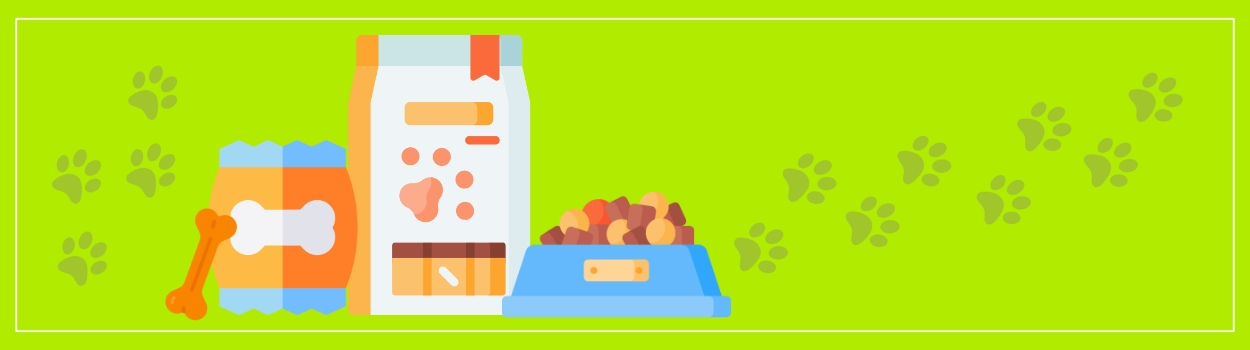
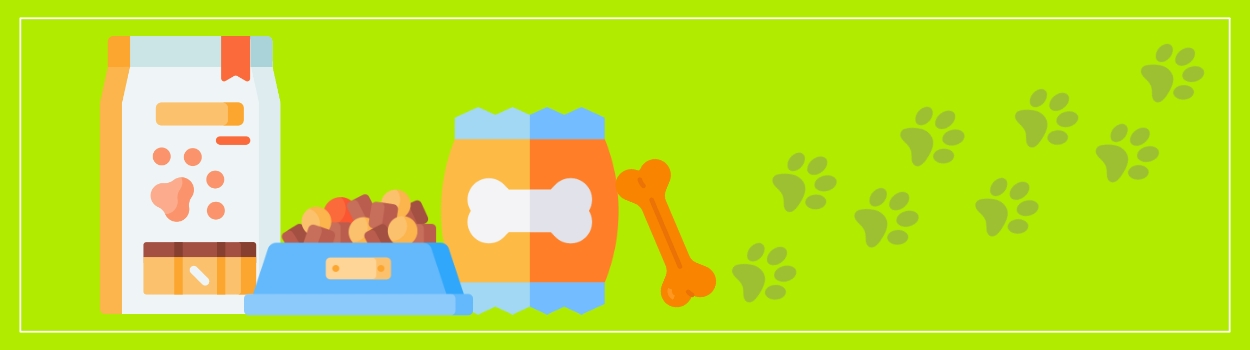
Interfaz Principal
Cambio de Imagees + slider

diff --git a/src/app/main/main.component.html b/src/app/main/main.component.html
@@ -11,6 +11,7 @@
       <div class="carousel-caption d-none d-md-block">
         <h5>First slide label</h5>
         <p>Nulla vitae elit libero, a pharetra augue mollis interdum.</p>
+        <button class="btn btn-primary"> Checkout </button>
       </div>
     </div>
     <div class="carousel-item">
@@ -18,6 +19,7 @@
       <div class="carousel-caption d-none d-md-block">
         <h5>Second slide label</h5>
         <p>Lorem ipsum dolor sit amet, consectetur adipiscing elit.</p>
+        <button class="btn btn-primary"> Checkout </button>
       </div>
     </div>
     <div class="carousel-item">
@@ -25,7 +27,7 @@
       <div class="carousel-caption d-none d-md-block">
         <h5>Third slide label</h5>
         <p>Praesent commodo cursus magna, vel scelerisque nisl consectetur.</p>
-        <button class="btn btn-primary"> algo </button>
+        <button class="btn btn-primary"> Checkout </button>
       </div>
     </div>
   </div>
@@ -38,7 +40,6 @@
     <span class="sr-only">Next</span>
   </a>
 </div>
-
   <!-- FIN SLIDER -->
 
 <!-- MASCOTAS -->

diff --git a/src/app/main/main.component.css b/src/app/main/main.component.css
@@ -5,6 +5,14 @@
     height: auto;
     overflow: hidden !important;
 }
+.carousel-caption{
+    margin: 0;
+    padding: 0;
+    position: absolute;
+    color: black;
+    bottom: 8rem;
+    left: 50rem;
+}
 
 .headerPets{
     margin-top: 1rem;
